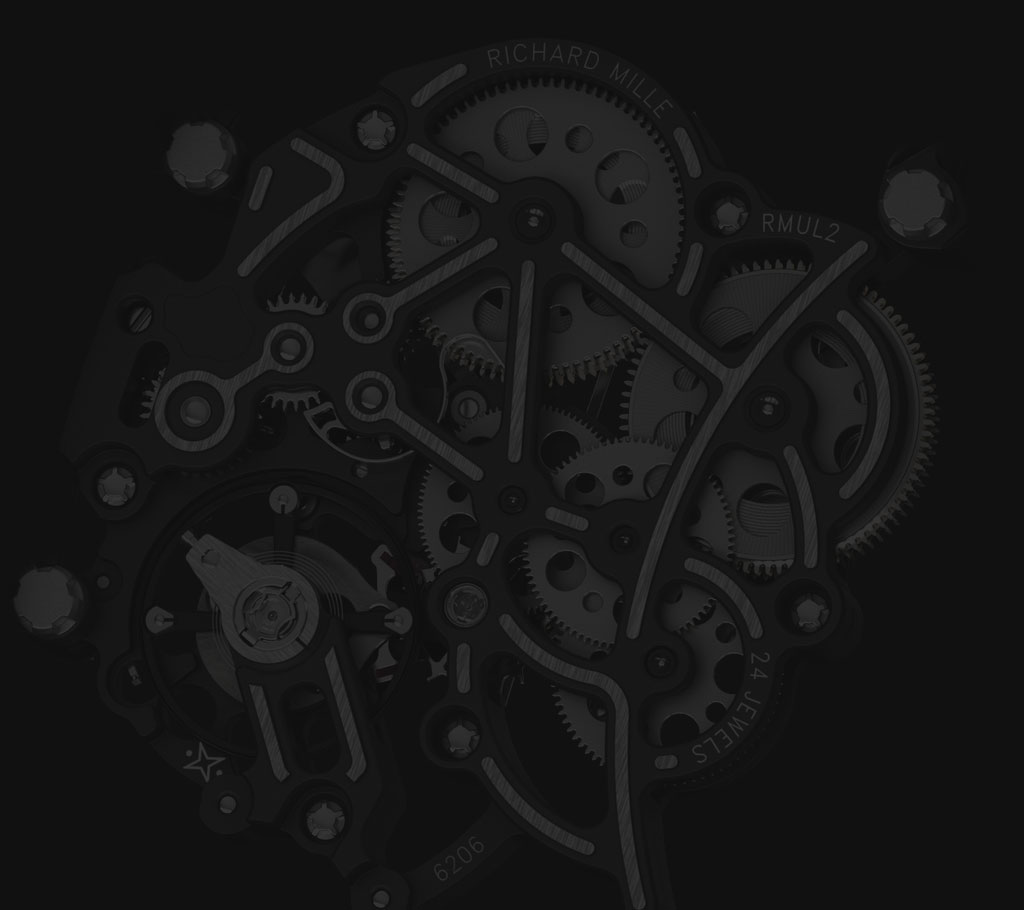
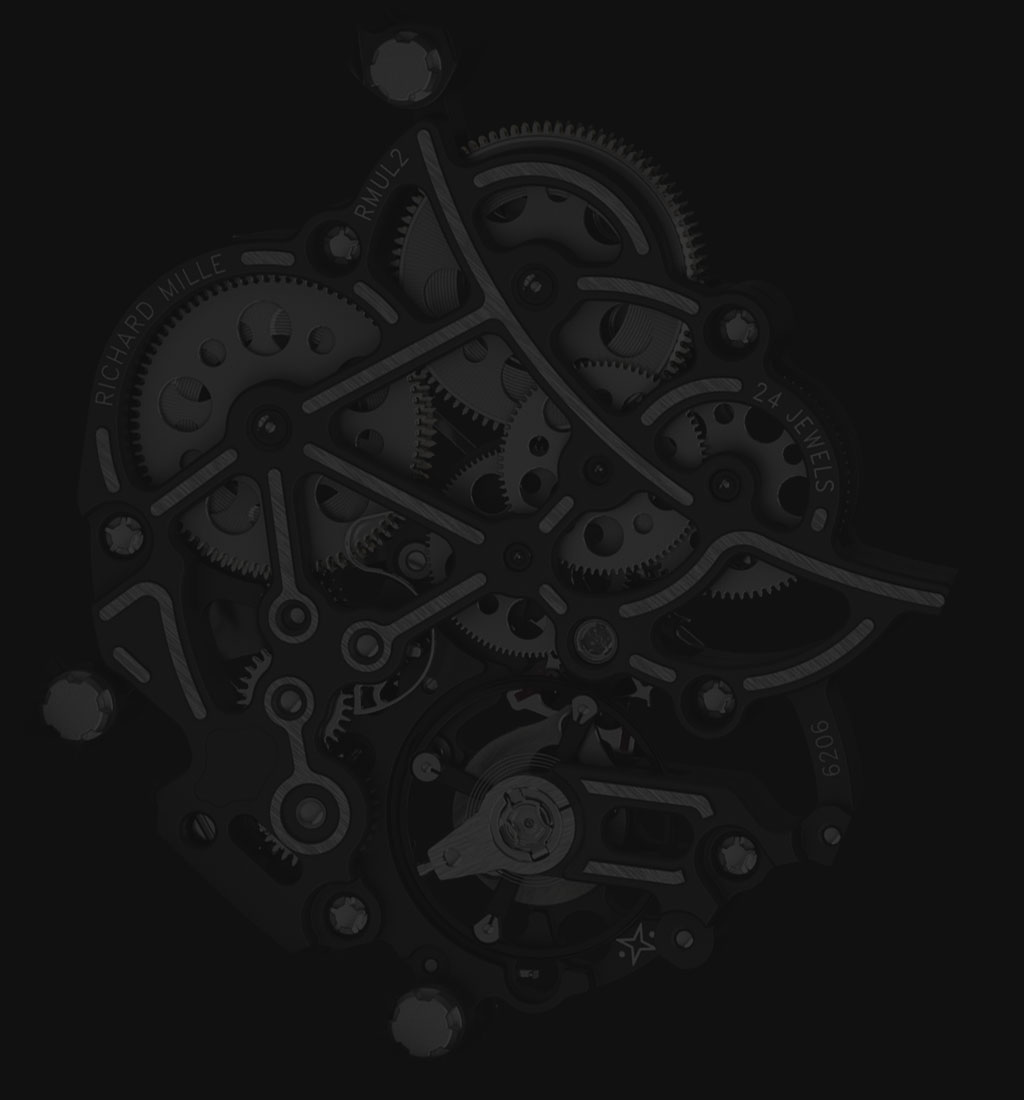
new bg image and other slight changes

diff --git a/app/assets/stylesheets/application.css.scss b/app/assets/stylesheets/application.css.scss
@@ -20,8 +20,8 @@ body {
 	height: 100%;
 
 	#bg {
-		background: url("/assets/bg_10.jpg") no-repeat;
-		background-position: 0% -200px;
+		background: url("/assets/bg_5.jpg") no-repeat;
+		background-position: 0% 100px;
 		min-height: 100%;
 	}
 }

diff --git a/app/assets/stylesheets/pages.css.scss b/app/assets/stylesheets/pages.css.scss
@@ -46,8 +46,8 @@
 	padding-bottom: 80px;
 
 	img {
-		width: 874px;
-		margin-left: 5px;
+		margin-left: 8px;
+		width: 1000px;
 		border: 2px solid #F2EF2C;
 	}
 

diff --git a/app/assets/stylesheets/main.css.scss b/app/assets/stylesheets/main.css.scss
@@ -45,6 +45,7 @@
 		background: #151515;
 		padding-bottom: 8px;
 		height: 100%;
+		width: 1040px;
 
 		#navi {
 			height: 516px;
